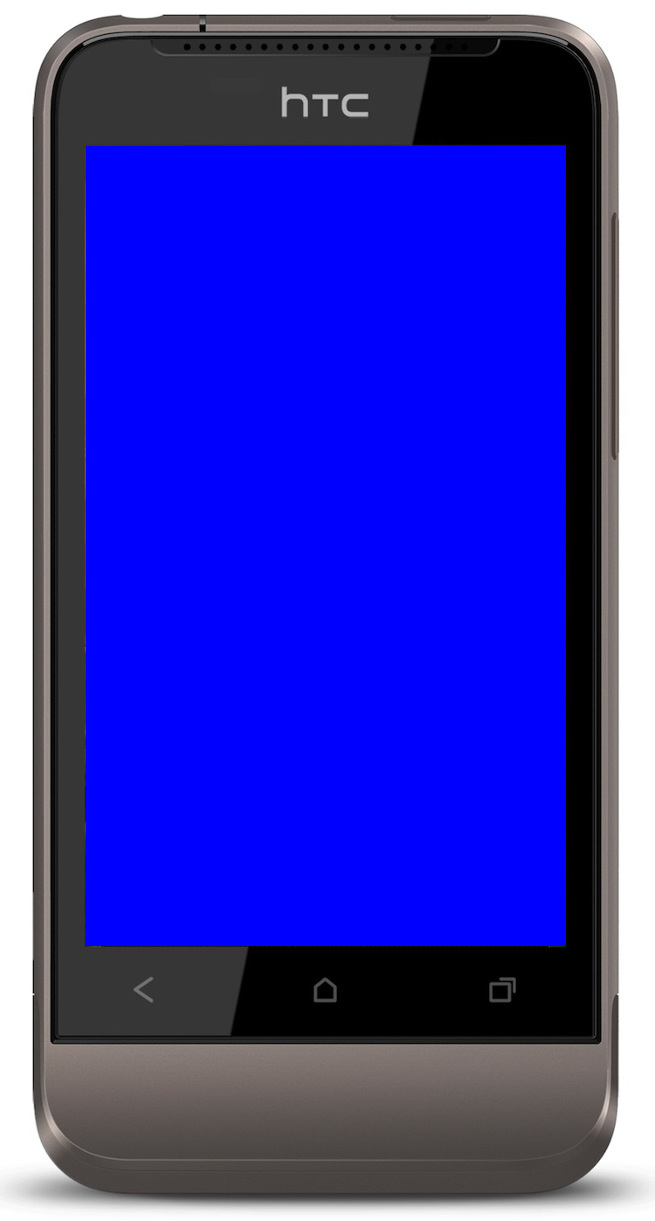
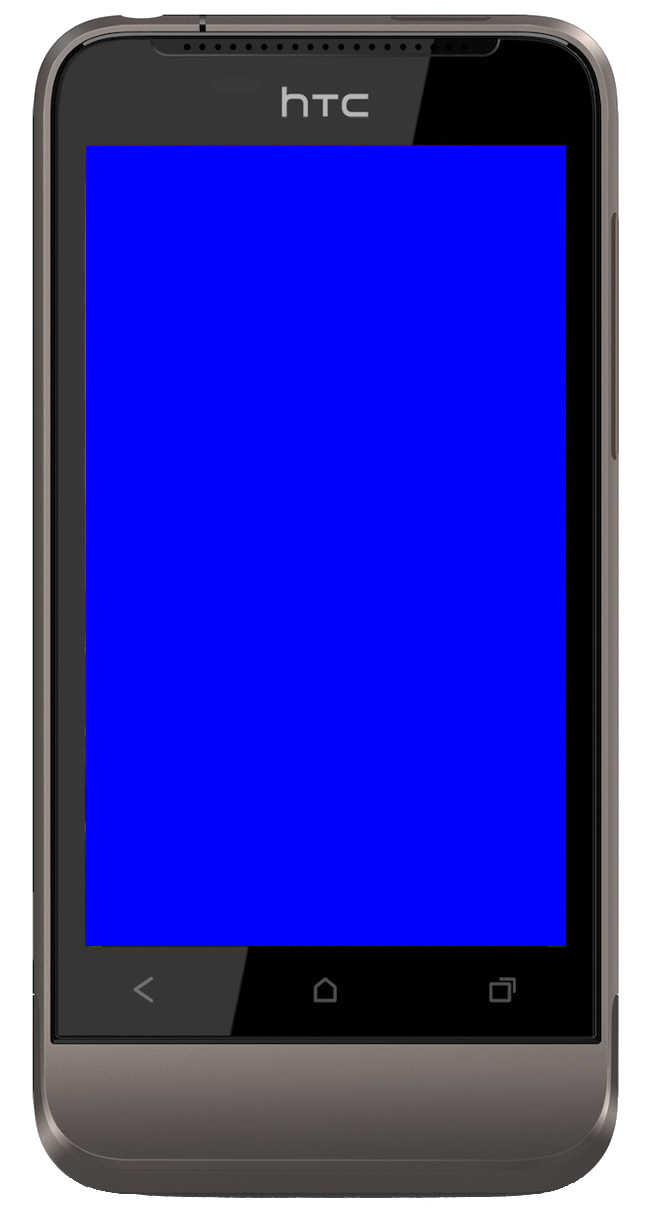
remove the canvas border

Changed region(s): [[0.0, 0.9337, 0.9771, 0.9959]]

diff --git a/src/main/java/com/ribomation/droidAtScreen/gui/DeviceFrame.java b/src/main/java/com/ribomation/droidAtScreen/gui/DeviceFrame.java
@@ -89,10 +89,15 @@ public class DeviceFrame extends JFrame implements Comparable<DeviceFrame> {
 		setTitle(device.getName());
 		setIconImage(GuiUtil.loadIcon("device").getImage());
 		setResizable(false);
+
+		JComponent c = (JComponent) getContentPane();
+		c.setBorder(BorderFactory.createEmptyBorder());
+
 		add(canvas = new ImageCanvas(), BorderLayout.CENTER);
 		add(toolBar = createToolBar(), BorderLayout.WEST);
 		add(infoPane = new InfoPane(), BorderLayout.SOUTH);
 
+		canvas.setBorder(BorderFactory.createEmptyBorder());
 		toolBar.setVisible(false);
 		infoPane.setVisible(false);
 
